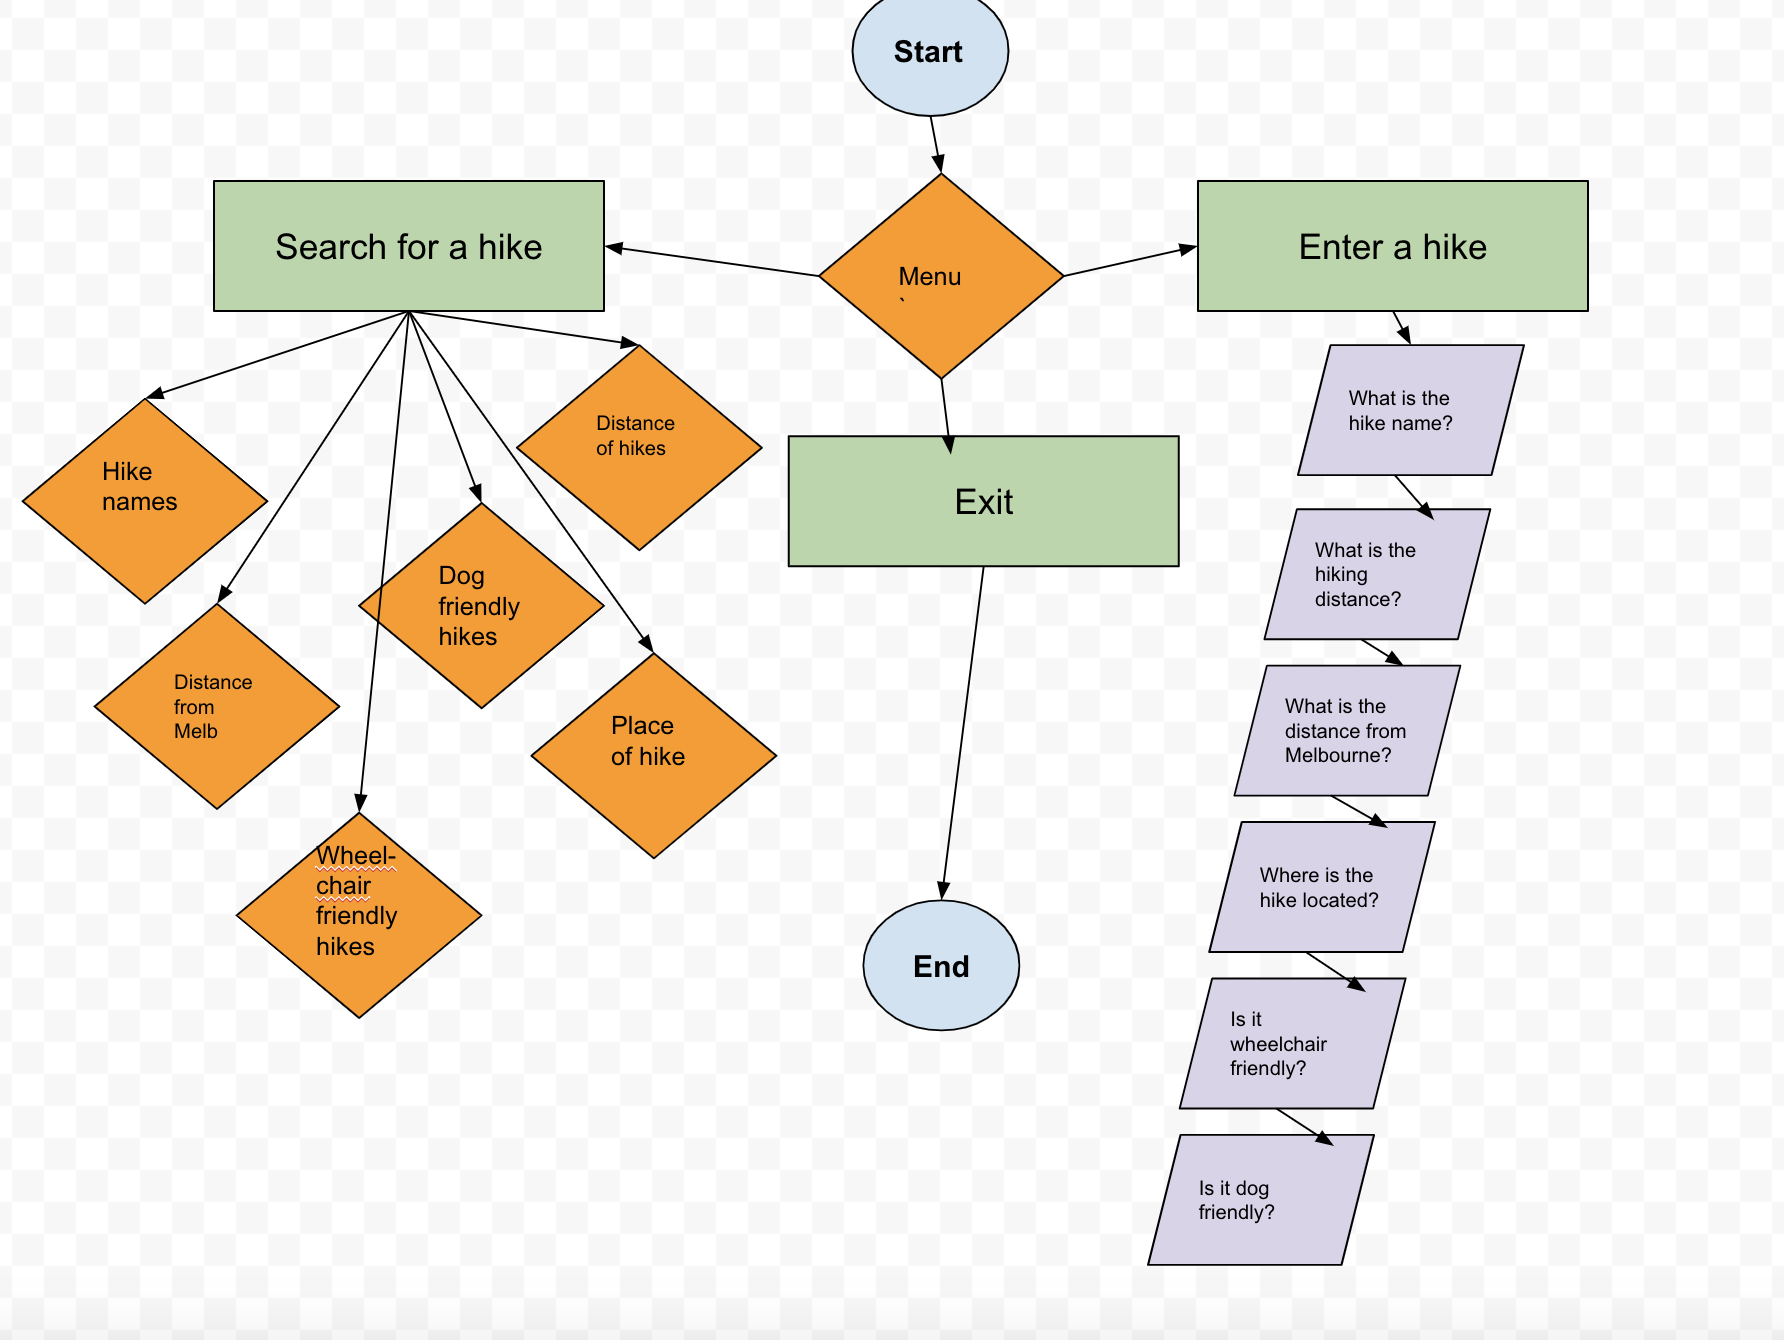
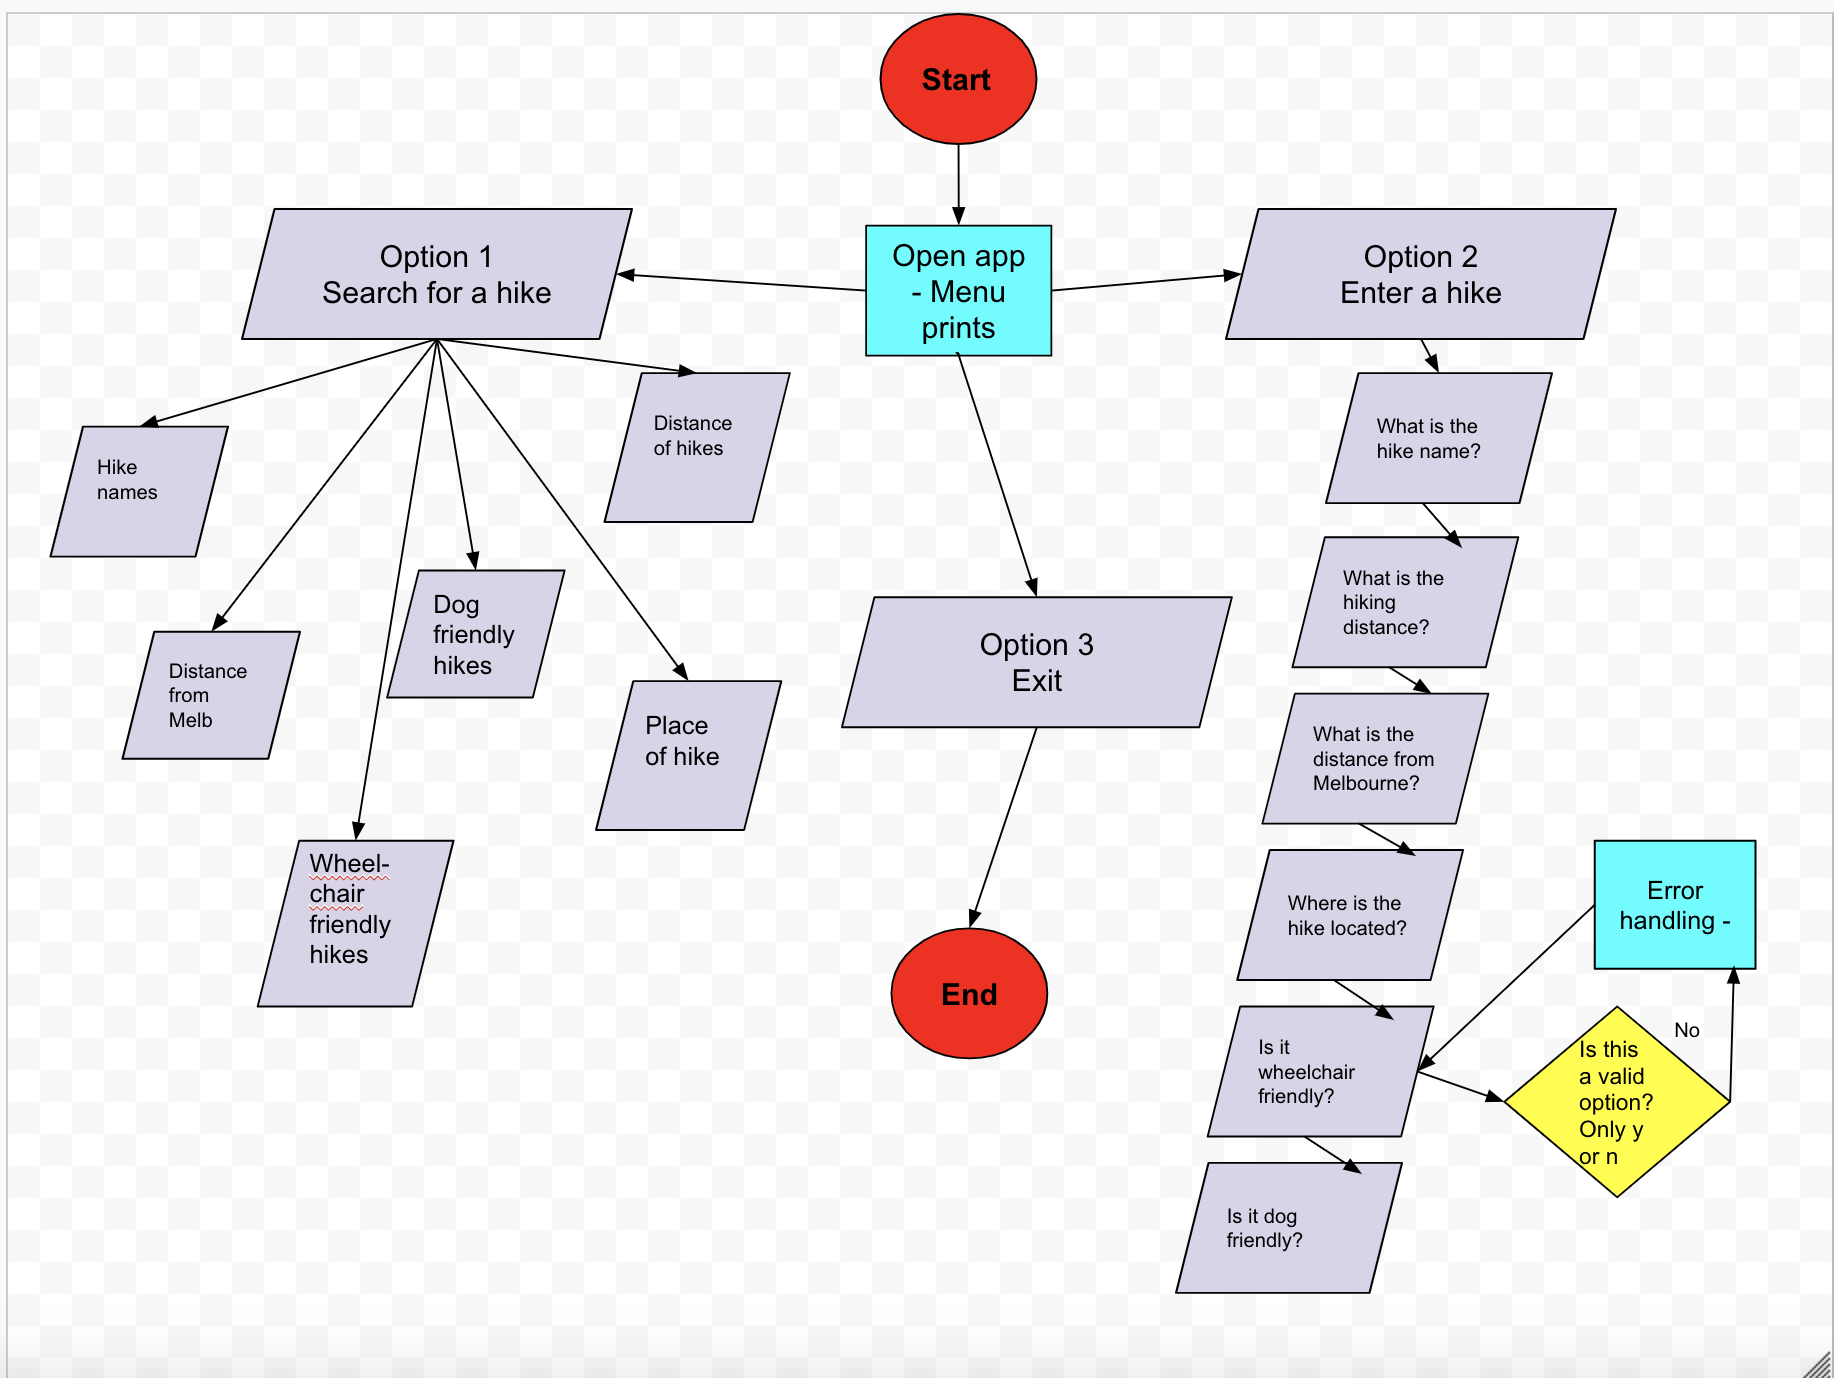
updated flow chart

diff --git a/src/run.rb b/src/run.rb
@@ -98,7 +98,8 @@ loop do
 
         when 2 #enter hike. 
             prompt = TTY::Prompt.new
-
+            distance = 0
+            distance_from_melbourne = 0
             hikes = prompt.ask('What is the name of the hike?') 
 
             loop do

diff --git a/src/hike.rb b/src/hike.rb
@@ -1,3 +1,5 @@
+# frozen_string_literal: true
+
 
 #########Main coding doc###############
 
@@ -5,6 +7,7 @@ require 'tty-prompt'
 require 'colorize'
 require 'tty-font'
 require 'tty-spinner'
+require 'rubocop'
 
 require 'CSV'
 require 'pry'

diff --git a/readme.md b/readme.md
@@ -18,7 +18,7 @@ This plan will include the following:
 ## Statement of Purpose and Scope
 ### What the app will do - search by hikes
 
-‘We can walk it out’ uses loop and case statements to provide people with information about hikes and to enter a hike. When users are first confronted with the app, there are three choices, ‘1. search by hike, 2. enter a hike and 3. exit.’ At the moment, users can only pick 1, 2 or 3. An else statement was used to achieve this. 
+‘We can walk it out’ uses loop and case statements to provide people with information about hikes and to enter a hike. When users are first confronted with the app, there are three choices, ‘1. search by hike, 2. enter a hike and 3. exit.’ Users can only pick 1, 2 or 3. An else statement was used to achieve this. 
 
 Data about the hikes are stored in a CSV file and a method was created to convert the CSV file into a hash in order to have a more aesthetically appealing display for the user. When users are searching hikes by name, distance from Melbourne etc, specific methods are being called upon in order to display the information as a hash. For example, when a user requests to list hikes by ‘Hike distance’, two methods are being called upon. The first one, ‘show_hike_dist(hiking_data)’ looks at hiking distance data from the CSV file and also uses a block to sort the data from shortest to longest. Then the user can choose which hike to look at specifically, calling on the method ‘hike_shown(hiking_data)’. 
 
@@ -103,9 +103,9 @@ Users also have the option to Exit from the app after searching or entering a hi
 
 ### How errors will be handled by the application and displayed to the user
 Currently, errors will be handled in the following way:
-* automated testing. Please refer to the file titled 'automated_test_for_hike.rb'
+* Automated testing. Please refer to the file titled 'automated_test_for_hike.rb'
 
-* manual testing. This is the link to the manual testing in detail [Link text](https://docs.google.com/spreadsheets/d/194DTAsyTxVmcwEmlERnpcEnefffcY9tf8t00JSTrAQk/edit#gid=883346421)
+* Manual testing. This is the link to the manual testing in detail [Google sheet](https://docs.google.com/spreadsheets/d/194DTAsyTxVmcwEmlERnpcEnefffcY9tf8t00JSTrAQk/edit#gid=883346421)
 
 Please see screenshots below. 
 
@@ -117,6 +117,10 @@ Please see screenshots below.
 ## Control Flow Diagram
 
 ![alt text](control-flow-diagram.png)
+
+This is an overview of the whole app and then I have provided one example of error handling. 
+
+This is the link to it as well. [Google drawing](https://docs.google.com/drawings/d/1xEXncdFXGSM4nKsnyBaKTQiBR3XKe9q7PFlLHQI_9ok/edit)
 
 ## Implementation Plan 
 
